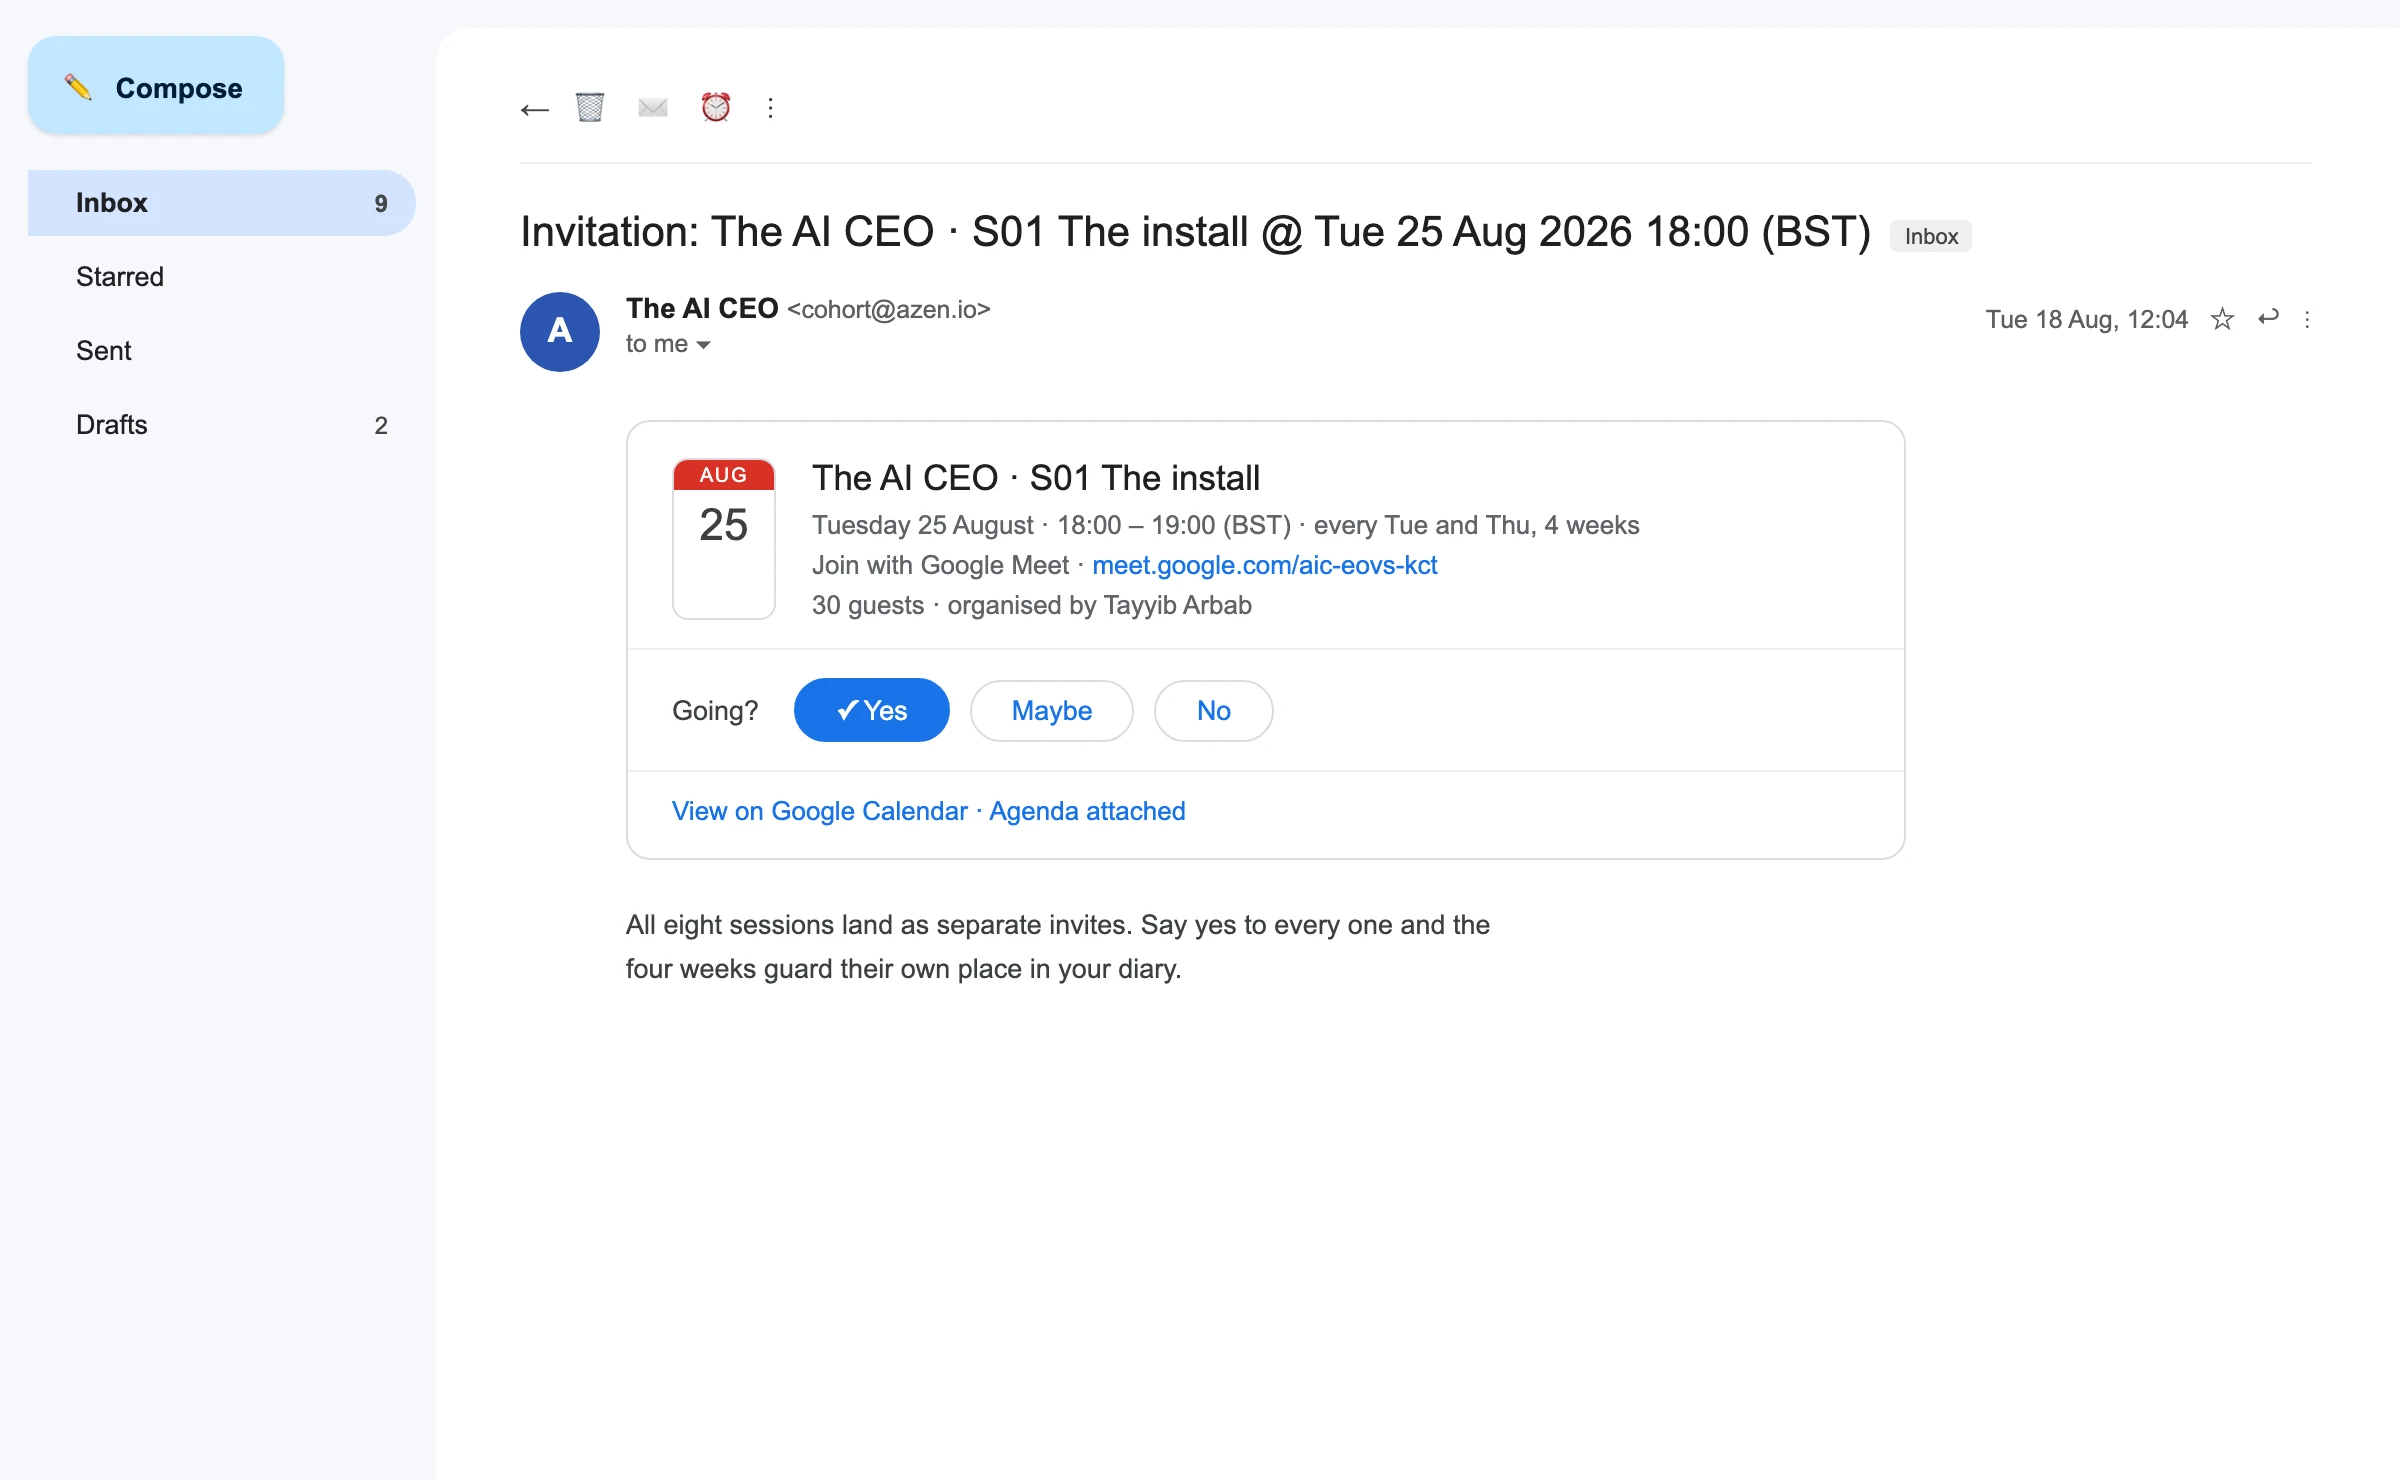
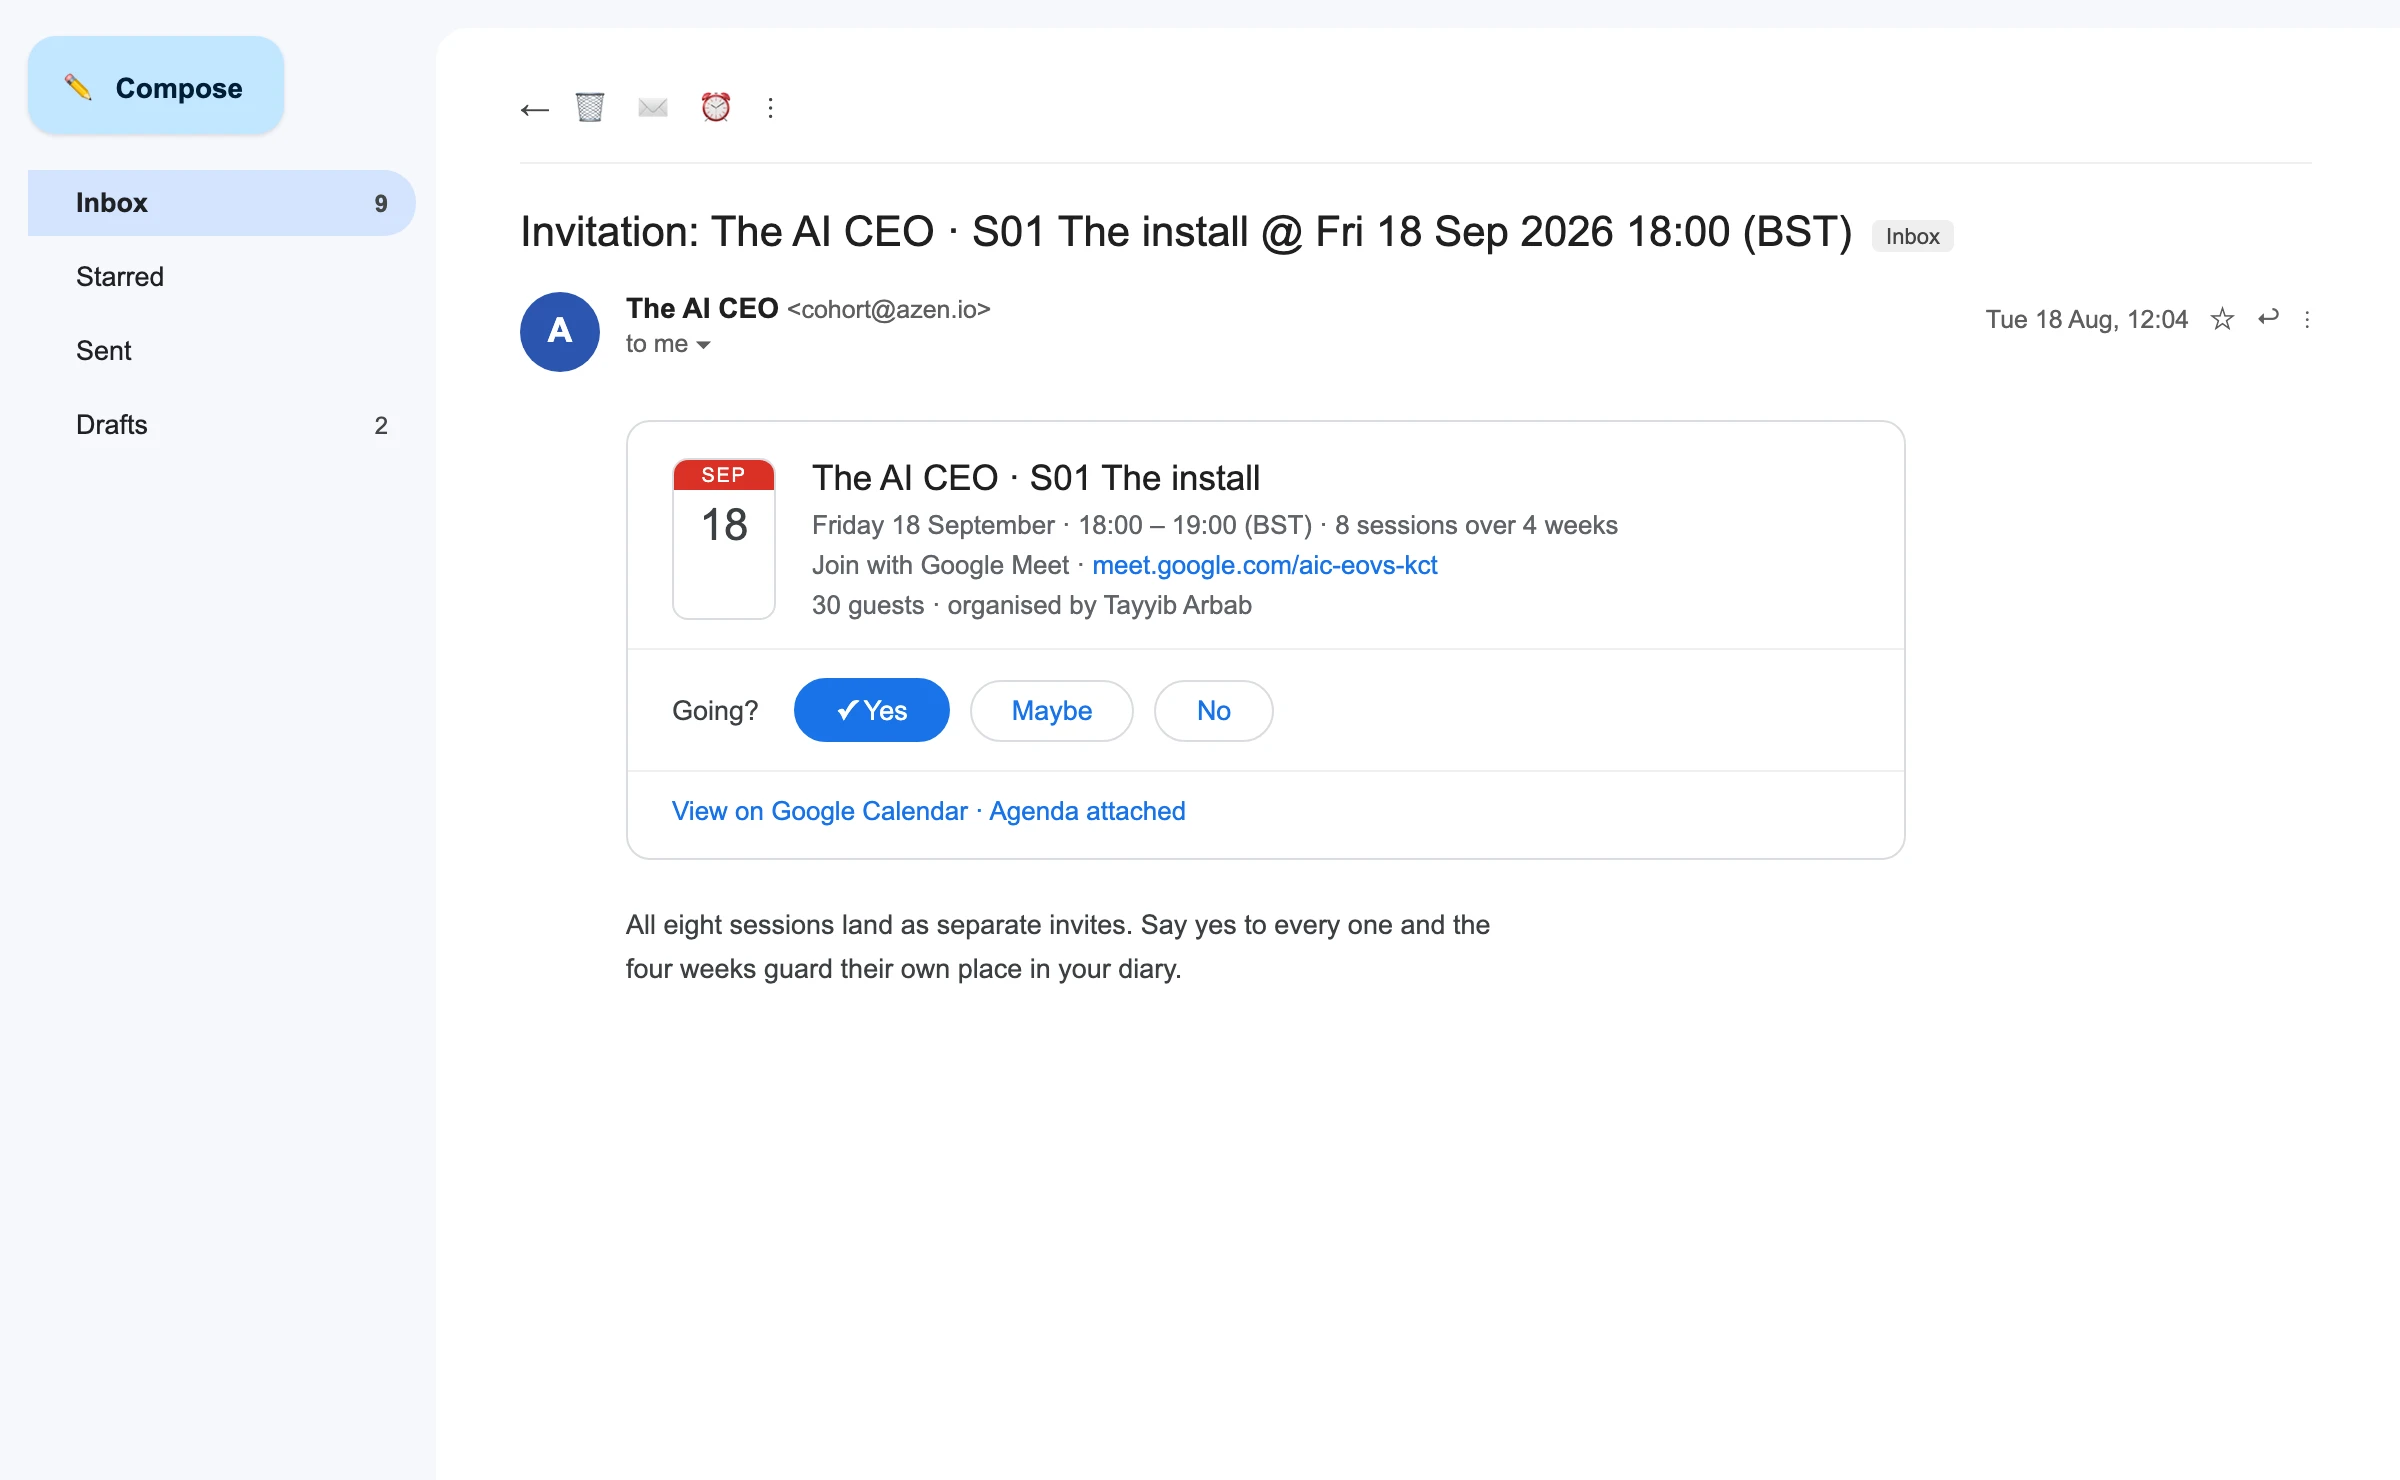
feat: call decisions in — Claim your seat CTAs, 18 September cohort, Days OS screens
From the founders' call: every site CTA flips to Claim your seat with
the cohort as the focused offer; all dates move to the 18 September
start (announcement, hero badge, closer, pricing, thank-you, OG image,
Gmail mocks); the 30-days section gains a scroll-synced picture of the
OS, one screen per beat; the get-section banner adds the daily tips
email running ten days past handover; 1-on-1 team education marked
priced separately.

Changed region(s): [[0.5625, 0.1243, 0.8125, 0.1865], [0.3438, 0.3419, 0.6875, 0.373], [0.2812, 0.3108, 0.3125, 0.373]]

diff --git a/src/content/site.ts b/src/content/site.ts
@@ -14,7 +14,7 @@ export const brand = {
 };
 
 export const announcement =
-  "Doors open 20 August · Cohort 1 · 30 seats · $997";
+  "Cohort 1 starts 18 September · 30 seats · $997";
 
 /** Section ids double as anchor targets; exec labels feed the terminal HUD. */
 export const sections = [
@@ -45,14 +45,14 @@ export const nav = {
     { label: "FAQS", href: "#faqs" },
     { label: "THE OFFICE", href: "#office" },
   ],
-  cta: { label: "Work with us 1-on-1", href: "#pricing" },
+  cta: { label: "Claim your seat", href: "#pricing" },
 };
 
 /** The live Commas checkout for the cohort seat. */
 export const checkoutUrl = "https://commas.com/checkout/q8g1pMuWskUnus";
 
 export const hero = {
-  badge: "DOORS OPEN 20 AUGUST · 30 SEATS",
+  badge: "COHORT 1 STARTS 18 SEPTEMBER · 30 SEATS",
   h1: ["Run your business", "like an AI CEO."],
   sub: [
     { t: "Over 8 live sessions we build systems you " },
@@ -61,7 +61,7 @@ export const hero = {
     { t: "runs them all", h: "dotted" as const },
     { t: ". Your business runs on it. You own every file." },
   ],
-  primary: { label: "Work with us 1-on-1", href: "#pricing" },
+  primary: { label: "Claim your seat", href: "#pricing" },
   secondary: { label: "See the office", href: "#office" },
   bootLog: [
     "boot aiceo_os.v1 ............ ok",
@@ -111,7 +111,7 @@ export const problem = {
   bold: "You're not running the business.",
   boldHl: "You're refreshing it.",
   turn: "None of this is a discipline problem. Your business has no memory and nobody on the desk overnight. Both are systems, and systems can be built.",
-  cta: "Work with us 1-on-1",
+  cta: "Claim your seat",
   diagram: {
     todayLabel: "TODAY",
     todayCount: "30 TABS",
@@ -179,7 +179,7 @@ export const days = {
   ],
   tail: "OF 5 · ONE ORDINARY DAY",
   staticTail: "5 BEATS · ONE ORDINARY DAY",
-  cta: { label: "Work with us 1-on-1", href: "#pricing" },
+  cta: { label: "Claim your seat", href: "#pricing" },
 };
 
 /* Merged mechanism + systems: four layers, each with the pain it kills,
@@ -338,7 +338,7 @@ export const whatYouGet = {
   banner: {
     label: "YOURS TO OWN",
     h: ["Built once.", "Owned forever."],
-    text: "Everything we build in the four weeks is yours outright. The files live on your machines. No platform that can take it away. It transfers with your business.",
+    text: "Everything we build in the four weeks is yours outright. The files live on your machines. No platform that can take it away. It transfers with your business. And the value keeps landing: one sharp AI tip in your inbox every day, through the cohort and for ten days after handover.",
   },
 };
 
@@ -458,7 +458,7 @@ export const pricing = {
   cards: [
     {
       id: "cohort",
-      badge: "COHORT 1 · DOORS OPEN 20 AUG",
+      badge: "COHORT 1 · STARTS 18 SEPTEMBER",
       title: "The AI CEO Cohort",
       intro:
         "Thirty owners, four weeks, all four systems built live on your own business. The free second brain is day one.",
@@ -479,8 +479,8 @@ export const pricing = {
       price: "$997",
       seatChip: "30 SEATS ONLY",
       priceSub: "Cohort 2 pricing will be higher. The list hears first.",
-      cta: "Claim a seat",
-      ctaNote: "Doors open 20 August.",
+      cta: "Claim your seat",
+      ctaNote: "Cohort 1 starts 18 September.",
       form: false,
     },
     {
@@ -496,7 +496,7 @@ export const pricing = {
         "The exact systems to build, and the stack to build them on",
         "Your first system, built for you, free",
         "A dedicated AI architect inside your business if we build together",
-        "Team education, whenever you want everyone fluent",
+        "Team education for your staff, priced separately",
       ],
       worth:
         "You leave with a plan you actually understand, not a subscription you rent: the systems named, the stack chosen, and the first one already running.",
@@ -541,10 +541,10 @@ export const faqs = {
 };
 
 export const closer = {
-  h2: "Doors open 20 August.",
+  h2: "Cohort 1 starts 18 September.",
   line: "COHORT 1 · 30 SEATS · $997",
   body: "Thirty owners build the AI CEO OS live, on their own businesses. The list hears first when seats move.",
-  cta: "Claim a seat",
+  cta: "Claim your seat",
   href: "#pricing",
 };
 
@@ -572,7 +572,7 @@ export const footer = {
 export const thankYou = {
   kicker: "PAYMENT CONFIRMED · COHORT 1",
   h1: "You're in.",
-  sub: "Your seat is locked for 20 August. Three things before day one. They take five minutes and you arrive ready.",
+  sub: "Your seat is locked for 18 September. Three things before day one. They take five minutes and you arrive ready.",
   steps: [
     {
       code: "STEP 01",

diff --git a/src/components/sections/Days.tsx b/src/components/sections/Days.tsx
@@ -24,6 +24,61 @@ gsap.registerPlugin(ScrollTrigger);
 const useIsoLayoutEffect =
   typeof window !== "undefined" ? useLayoutEffect : useEffect;
 
+/* One OS screen per beat: the picture that changes as you scroll.
+   Times mirror days.entries in site.ts. */
+const OS_SHOTS: { time: string; rows: { k: string; v: string; hl?: boolean }[]; foot: string }[] = [
+  {
+    time: "11:42 PM",
+    rows: [
+      { k: "IN 23:42", v: "new enquiry · loft conversion" },
+      { k: "OUT 23:46", v: "reply sent · your voice · price attached", hl: true },
+      { k: "OFFERED", v: "Tue 10:00 / Thu 14:00" },
+      { k: "YOU", v: "asleep" },
+    ],
+    foot: "speed_to_lead · 4 MIN REPLY",
+  },
+  {
+    time: "2:00 AM",
+    rows: [
+      { k: "QUEUE", v: "40 dormant clients" },
+      { k: "SENT", v: "████████░░ 32/40", hl: true },
+      { k: "REPLIES", v: "3 already in" },
+      { k: "YOU", v: "still asleep" },
+    ],
+    foot: "reactivation · THE OLD LIST, WORKING",
+  },
+  {
+    time: "7:00 AM",
+    rows: [
+      { k: "TODAY", v: "set by the OS", hl: true },
+      { k: "OVERNIGHT", v: "1 enquiry answered · 3 replies" },
+      { k: "CHASE", v: "6 warm leads queued" },
+      { k: "NEEDS YOU", v: "1 decision" },
+    ],
+    foot: "orchestrator · THE DAY, ALREADY SET",
+  },
+  {
+    time: "9:15 AM",
+    rows: [
+      { k: "Q", v: "what did we quote in March?" },
+      { k: "A", v: "£4,800 · fitted 12 March", hl: true },
+      { k: "FOUND IN", v: "9 seconds" },
+      { k: "SOURCE", v: "your files" },
+    ],
+    foot: "brain · NOTHING FORGOTTEN",
+  },
+  {
+    time: "THE DAY",
+    rows: [
+      { k: "INBOX", v: "handled" },
+      { k: "LEADS", v: "answered and chased" },
+      { k: "LIST", v: "waking up" },
+      { k: "YOU", v: "on the work only you can do", hl: true },
+    ],
+    foot: "aiceo_os · RUNNING WITHOUT YOU",
+  },
+];
+
 export default function Days() {
   const [active, setActive] = useState(0);
   const [staticMode, setStaticMode] = useState(false);
@@ -68,12 +123,15 @@ export default function Days() {
     return () => ctx.revert();
   }, [count]);
 
+  const shot = OS_SHOTS[staticMode ? 2 : Math.min(active, OS_SHOTS.length - 1)];
+
   return (
     <Section id="days" className="py-20 md:py-24">
-      <div ref={pinRef} className="max-w-[72ch]">
+      <div ref={pinRef}>
         <h2 className="display-2">{days.h2}</h2>
 
-        <div className="relative mt-10 pl-9">
+        <div className="mt-10 grid items-start gap-10 lg:grid-cols-[minmax(0,1fr)_380px]">
+        <div className="relative pl-9">
           {/* rail + animated fill */}
           <div
             aria-hidden
@@ -117,6 +175,36 @@ export default function Days() {
               </div>
             );
           })}
+        </div>
+
+        {/* the OS, pictured: one screen per beat, swapping with scroll */}
+        <aside className="overflow-hidden border-2 border-accent bg-bg-dark shadow-[8px_8px_0_rgba(43,85,176,0.15)]">
+          <div className="flex items-center justify-between border-b border-white/10 px-4 py-2.5 font-mono text-[10.5px] tracking-[0.15em] text-neutral-400">
+            <span className="flex items-center gap-2">
+              <span aria-hidden className="live-dot h-1.5 w-1.5 rounded-full bg-accent" />
+              THE AI CEO OS
+            </span>
+            <span className="text-accent">{shot.time}</span>
+          </div>
+          <div key={staticMode ? "static" : active} className="os-shot-enter space-y-3 px-4 py-5">
+            {shot.rows.map((r) => (
+              <p key={r.k} className="flex gap-3 font-mono text-[12px] leading-relaxed">
+                <span className="w-24 shrink-0 text-neutral-500">{r.k}</span>
+                <span className={r.hl ? "text-white" : "text-neutral-300"}>
+                  {r.hl && (
+                    <span aria-hidden className="mr-1.5 text-accent">
+                      ▸
+                    </span>
+                  )}
+                  {r.v}
+                </span>
+              </p>
+            ))}
+          </div>
+          <div className="border-t border-white/10 px-4 py-2 font-mono text-[9.5px] tracking-[0.14em] text-neutral-500">
+            $ {shot.foot}
+          </div>
+        </aside>
         </div>
 
         <div className="mt-9 flex flex-wrap items-center justify-between gap-4">

diff --git a/src/app/globals.css b/src/app/globals.css
@@ -120,6 +120,26 @@ body::before {
 }
 
 /* Live-dot pulse (announcement pill, demo panel header) */
+/* the Days OS screen swaps per beat with a soft rise */
+@keyframes os-shot {
+  from {
+    opacity: 0;
+    transform: translateY(6px);
+  }
+  to {
+    opacity: 1;
+    transform: none;
+  }
+}
+.os-shot-enter {
+  animation: os-shot 0.35s ease-out;
+}
+@media (prefers-reduced-motion: reduce) {
+  .os-shot-enter {
+    animation: none;
+  }
+}
+
 @keyframes live-pulse {
   0%,
   100% {
